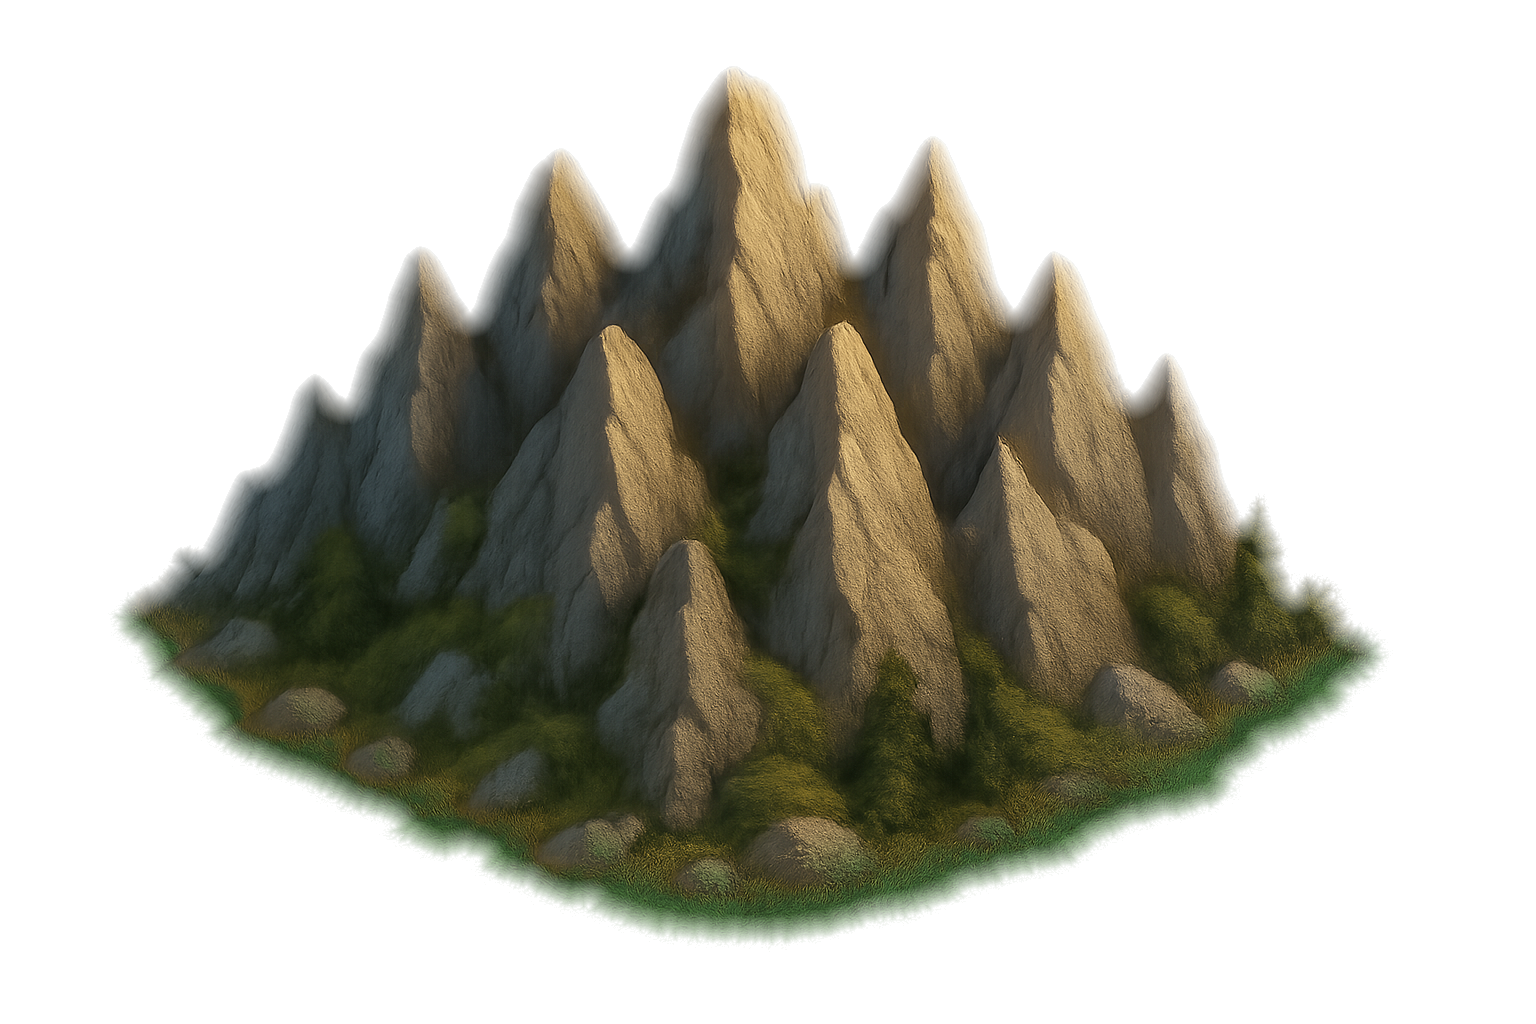
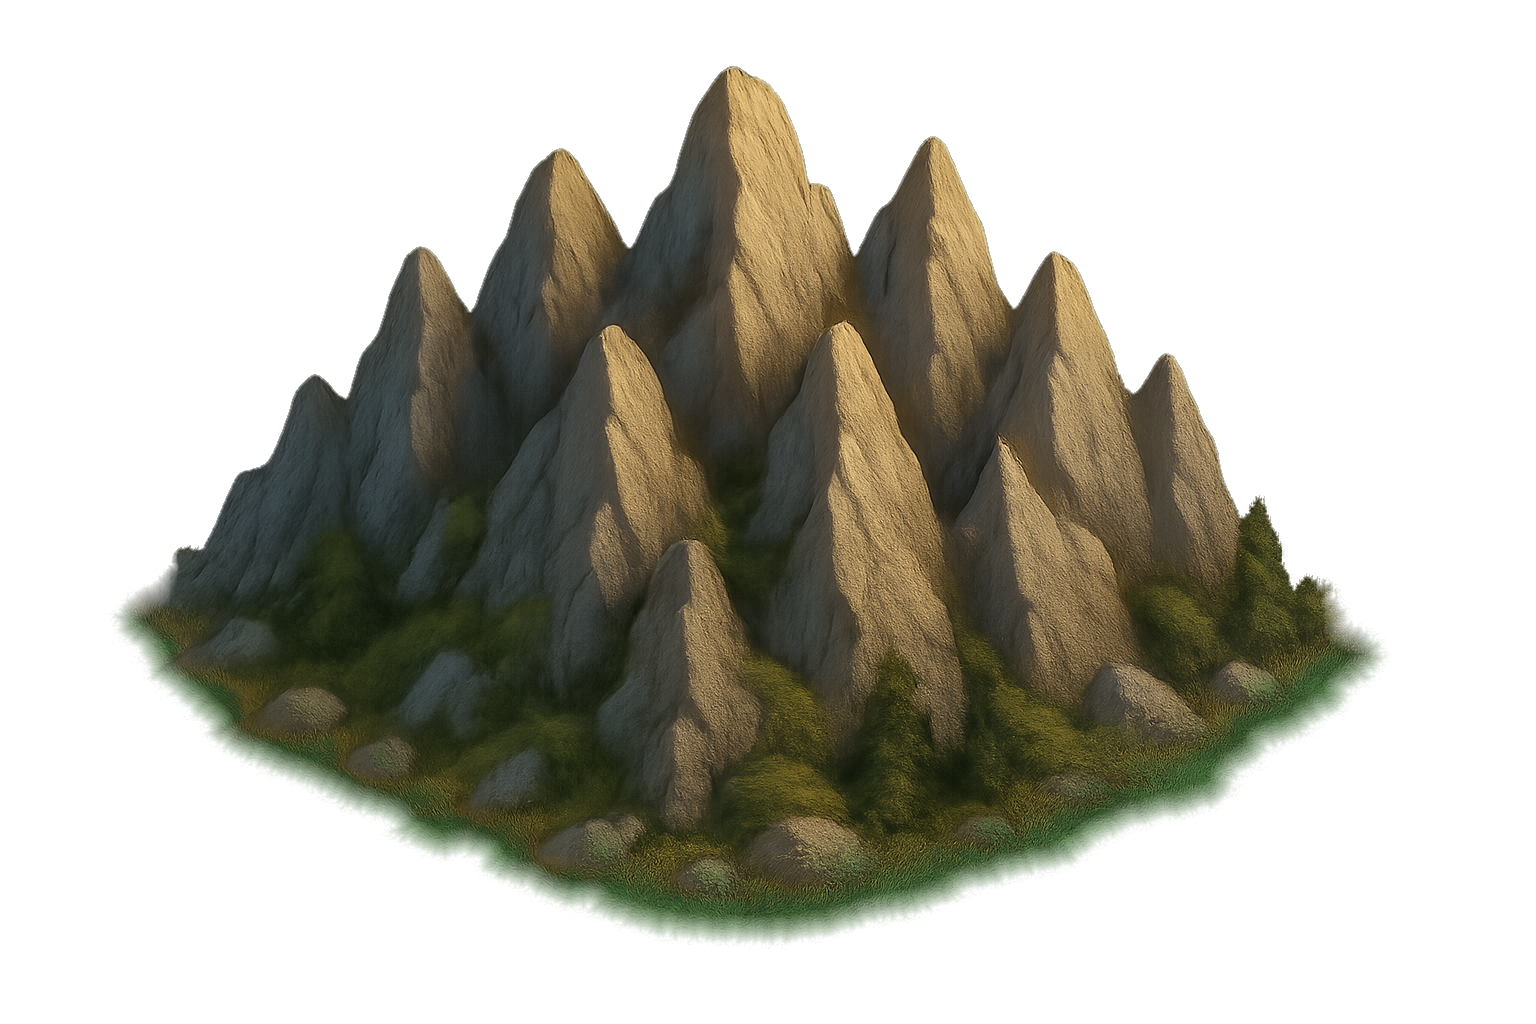
Twierdza, runda 6: 0/3; strona postępu odporna na pliki w trakcie zapisu
Claude-Session: https://claude.ai/code/session_01Qu47Qn6gy3U54smkJJnCXL

Changed region(s): [[0.0938, 0.0625, 0.875, 0.625]]

diff --git a/src/data/plansza-teren-bagna.ts b/src/data/plansza-teren-bagna.ts
@@ -103,32 +103,24 @@ export const ROZSTAWIENIE: Array<{
   { x: 43, y: 5, rodzaj: 'skrzynia', strefa: 'wroga' },
   { x: 47, y: 4, rodzaj: 'artefakt', strefa: 'wroga' },
   { x: 48, y: 11, rodzaj: 'surowiec', strefa: 'wroga', surowiec: 'kamien' },
-  { x: 11, y: 51, rodzaj: 'kopalnia', strefa: 'dom', surowiec: 'jagoda' },
+  { x: 11, y: 51, rodzaj: 'kopalnia', strefa: 'dom', surowiec: 'kamien' },
   { x: 14, y: 45, rodzaj: 'kopalnia', strefa: 'dom', surowiec: 'odlamek' },
   { x: 4, y: 46, rodzaj: 'budynek', strefa: 'dom', budynek: 'drzewo-wiedzy' },
   { x: 16, y: 34, rodzaj: 'budynek', strefa: 'dom', budynek: 'zrodlo' },
-  { x: 16, y: 45, rodzaj: 'surowiec', strefa: 'dom', surowiec: 'pokeball' },
-  { x: 16, y: 46, rodzaj: 'surowiec', strefa: 'dom', surowiec: 'jagoda' },
   { x: 14, y: 46, rodzaj: 'surowiec', strefa: 'dom', surowiec: 'jagoda' },
-  { x: 15, y: 47, rodzaj: 'skrzynia', strefa: 'dom' },
   { x: 18, y: 34, rodzaj: 'artefakt', strefa: 'dom' },
   { x: 18, y: 35, rodzaj: 'potwor', strefa: 'dom', sila: 'slaby' },
   { x: 13, y: 37, rodzaj: 'surowiec', strefa: 'dom', surowiec: 'odlamek' },
   { x: 2, y: 43, rodzaj: 'surowiec', strefa: 'dom', surowiec: 'odlamek' },
-  { x: 17, y: 36, rodzaj: 'skrzynia', strefa: 'dom' },
   { x: 11, y: 37, rodzaj: 'kopalnia', strefa: 'dom', surowiec: 'pokeball' },
   { x: 11, y: 38, rodzaj: 'potwor', strefa: 'dom', sila: 'slaby' },
   { x: 15, y: 39, rodzaj: 'kopalnia', strefa: 'dom', surowiec: 'jagoda' },
   { x: 18, y: 38, rodzaj: 'surowiec', strefa: 'dom', surowiec: 'pokeball' },
-  { x: 15, y: 36, rodzaj: 'surowiec', strefa: 'dom', surowiec: 'pokeball' },
   { x: 14, y: 34, rodzaj: 'surowiec', strefa: 'dom', surowiec: 'jagoda' },
-  { x: 14, y: 35, rodzaj: 'surowiec', strefa: 'dom', surowiec: 'pokeball' },
-  { x: 16, y: 36, rodzaj: 'skrzynia', strefa: 'dom' },
   { x: 3, y: 47, rodzaj: 'skrzynia', strefa: 'dom' },
   { x: 17, y: 39, rodzaj: 'artefakt', strefa: 'dom' },
   { x: 4, y: 47, rodzaj: 'potwor', strefa: 'dom', sila: 'slaby' },
   { x: 17, y: 37, rodzaj: 'potwor', strefa: 'dom', sila: 'slaby' },
-  { x: 3, y: 42, rodzaj: 'skrzynia', strefa: 'dom' },
   { x: 3, y: 45, rodzaj: 'potwor', strefa: 'dom', sila: 'slaby' },
   { x: 17, y: 42, rodzaj: 'budynek', strefa: 'dom', budynek: 'wiatrak' },
   { x: 11, y: 33, rodzaj: 'potwor', strefa: 'pogranicze', sila: 'sredni' },
@@ -309,7 +301,7 @@ export const USTAWIENIA = {
       "promien": 4
     }
   ],
-  "znajdzki": 0.7,
+  "znajdzki": 0.44,
   "masywy": [
     {
       "plik": "gora-2",
@@ -324,9 +316,9 @@ export const USTAWIENIA = {
       ]
     },
     {
-      "plik": "gora-1",
-      "x": 6.3,
-      "y": 45.4,
+      "plik": "gora-7",
+      "x": 6.0,
+      "y": 45.6,
       "szer": 9.0,
       "pokrywa": [
         4,
@@ -336,10 +328,10 @@ export const USTAWIENIA = {
       ]
     },
     {
-      "plik": "gora-6",
-      "x": 6.3,
-      "y": 54.4,
-      "szer": 7.8,
+      "plik": "gora-8",
+      "x": 5.3,
+      "y": 54.15,
+      "szer": 8.0,
       "pokrywa": [
         4,
         50,
@@ -348,11 +340,10 @@ export const USTAWIENIA = {
       ]
     },
     {
-      "plik": "gora-5",
-      "x": 16.9,
-      "y": 54.4,
-      "szer": 5.8,
-      "odbij": true,
+      "plik": "gora-9",
+      "x": 17.1,
+      "y": 54.15,
+      "szer": 5.6,
       "pokrywa": [
         15,
         50,

diff --git a/src/data/zestawy-klimatu.ts b/src/data/zestawy-klimatu.ts
@@ -62,6 +62,9 @@ export const ZESTAWY_KLIMATU: Record<string, readonly string[]> = {
     "gora-4",
     "gora-5",
     "gora-6",
+    "gora-7",
+    "gora-8",
+    "gora-9",
     "kepa-las-1",
     "kepa-las-2",
     "kepa-las-3",
@@ -77,6 +80,7 @@ export const ZESTAWY_KLIMATU: Record<string, readonly string[]> = {
     "kopiec-2",
     "krzak",
     "krzak-2",
+    "sad",
     "skala",
     "skala-2",
     "stos-jagody",

diff --git a/tools/mapy/bagna.py b/tools/mapy/bagna.py
@@ -622,7 +622,8 @@ USTAWIENIA = {
     # na omszałym kamieniu), nie ikony z paska — i są drobniejsze, z cieniem
     # kontaktowym, jak skarby na mapie Heroes 3.
     # Runda 9: 0,8 → 0,7 — czerwone stosy pokeballi zagłuszały budowle.
-    'znajdzki': 0.7,
+    # Runda 10 („znajdźki za duże — zmniejszyć o około 40%"): 0,7 → 0,44.
+    'znajdzki': 0.44,
     # Runda 8 (HotA: „góry to osobne stożki skał wklejone jak sprite'y — nie
     # łączą się w grzbiety ani pasma i nie mają podnóży przechodzących
     # w trawę"): skały pierwszego ekranu rysują WIELOPOLOWE pasma
@@ -633,11 +634,17 @@ USTAWIENIA = {
     # `x`, `y` — stopa rysunku w polach (krawędzie pól), `szer` w polach.
     'masywy': [
         {'plik': 'gora-2', 'x': 6.0, 'y': 41.5, 'szer': 7.0, 'pokrywa': [4, 37, 9, 40]},
-        {'plik': 'gora-1', 'x': 6.3, 'y': 45.4, 'szer': 9.0, 'pokrywa': [4, 41, 9, 44]},
-        {'plik': 'gora-6', 'x': 6.3, 'y': 54.4, 'szer': 7.8, 'pokrywa': [4, 50, 8, 53]},
+        # Runda 10 (HotA: „góry to pojedyncze, odizolowane stożki — lewy dolny
+        # róg i lewa krawędź nad zamkiem"): rząd stożków widziany z boku
+        # (`gora-1`, `gora-6`, `gora-5`) zastąpiły zwarte masywy widziane
+        # z góry — kilka rzędów szczytów połączonych granią, usypiska i głazy
+        # u stóp (PROMPTY-PLANSZE §19). Masyw nad zamkiem zachodzi na podnóże
+        # wodospadu, więc lewa krawędź to jedno pasmo.
+        {'plik': 'gora-7', 'x': 6.0, 'y': 45.6, 'szer': 9.0, 'pokrywa': [4, 41, 9, 44]},
+        {'plik': 'gora-10', 'x': 5.3, 'y': 54.15, 'szer': 8.0, 'pokrywa': [4, 50, 8, 53]},
         # Runda 9: węższa i w lewo — prawe zbocze wchodziło na Strugę
         # i rzeka płynęła „pod górą".
-        {'plik': 'gora-5', 'x': 16.9, 'y': 54.4, 'szer': 5.8, 'odbij': True, 'pokrywa': [15, 50, 18, 53]},
+        {'plik': 'gora-9', 'x': 17.1, 'y': 54.15, 'szer': 5.6, 'pokrywa': [15, 50, 18, 53]},
     ],
     # Runda 6 (HotA: „obiekty interaktywne są mniejsze od drzew i krzaków,
     # bez cienia, konturu i kontrastu"): budowle większe i obrys wokół

diff --git a/tools/wsad_wczytaj.py b/tools/wsad_wczytaj.py
@@ -667,7 +667,7 @@ ZESTAWY = {
         # Bagna, runda 10 (HotA: „pojedyncze stożki"): zwarte masywy widziane
         # z góry, kilka rzędów szczytów (PROMPTY-PLANSZE §19), i sad jagód
         # jako chata zbieracza na torfowisku zamiast jabłoni z koszami.
-        'gora-7': 380, 'gora-8': 340, 'gora-9': 380, 'sad': 160,
+        'gora-7': 380, 'gora-8': 340, 'gora-9': 380, 'gora-10': 380, 'sad': 160,
     },
     # Polana: trawiaste góry z brązowymi urwiskami zamiast omszałych głazów
     # (runda 3 ślepego porównania: „bez pasma gór w kadrze").

diff --git a/tools/postep_kampania.py b/tools/postep_kampania.py
@@ -112,7 +112,10 @@ GRUPY = [
 
 
 def miniatura(plik: Path, bok: int = 132) -> str:
-    im = Image.open(plik).convert('RGBA')
+    try:
+        im = Image.open(plik).convert('RGBA')
+    except OSError:
+        return ''  # plik w trakcie zapisu (generator albo builder) — następnym razem
     im.thumbnail((bok, bok), Image.LANCZOS)
     tlo = Image.new('RGBA', im.size, (40, 54, 78, 255))
     tlo.alpha_composite(im)

diff --git a/tools/PROMPTY-PLANSZE.md b/tools/PROMPTY-PLANSZE.md
@@ -1772,3 +1772,21 @@ red and dark blue berries, one woven wicker basket on the jetty, cattails and
 reeds at the water's edge. Organic irregular shapes, no straight boxes. Mostly
 green, brown and dark water, with only small touches of red. Wider than tall.
 ```
+
+Lewy dolny róg kadru — `bagno-gora-8` wyszła za zielona (z daleka omszały
+pagórek, nie skały); zamiast niej drugi zwarty masyw w skali `bagno-gora-7`:
+
+<!-- plik: bagno-gora-10.png | styl: obiekt | proporcje: 3:2 -->
+```
+A dense rocky mountain massif for a swampland adventure map, seen from high
+above at a steep three-quarter top-down angle exactly like the mountains on a
+Heroes of Might and Magic 3 adventure map: a crowded cluster of about ten
+sharp jagged rock peaks in three overlapping rows receding into depth, the
+tallest and thickest group at the back left, the peaks getting lower toward
+the front right where the massif ends in a spur of broken crags and big
+boulders. All joined by jagged ridgelines into one solid impassable mass.
+Cool grey and grey-brown rock with pale sunlit faces lit from the upper left,
+deep blue-grey shadowed faces, dark crevices, only small patches of dark green
+moss in the hollows. Grey scree, mossy boulders, two small dark fir trees and
+ferns along the soft irregular foot. Much wider than tall.
+```
